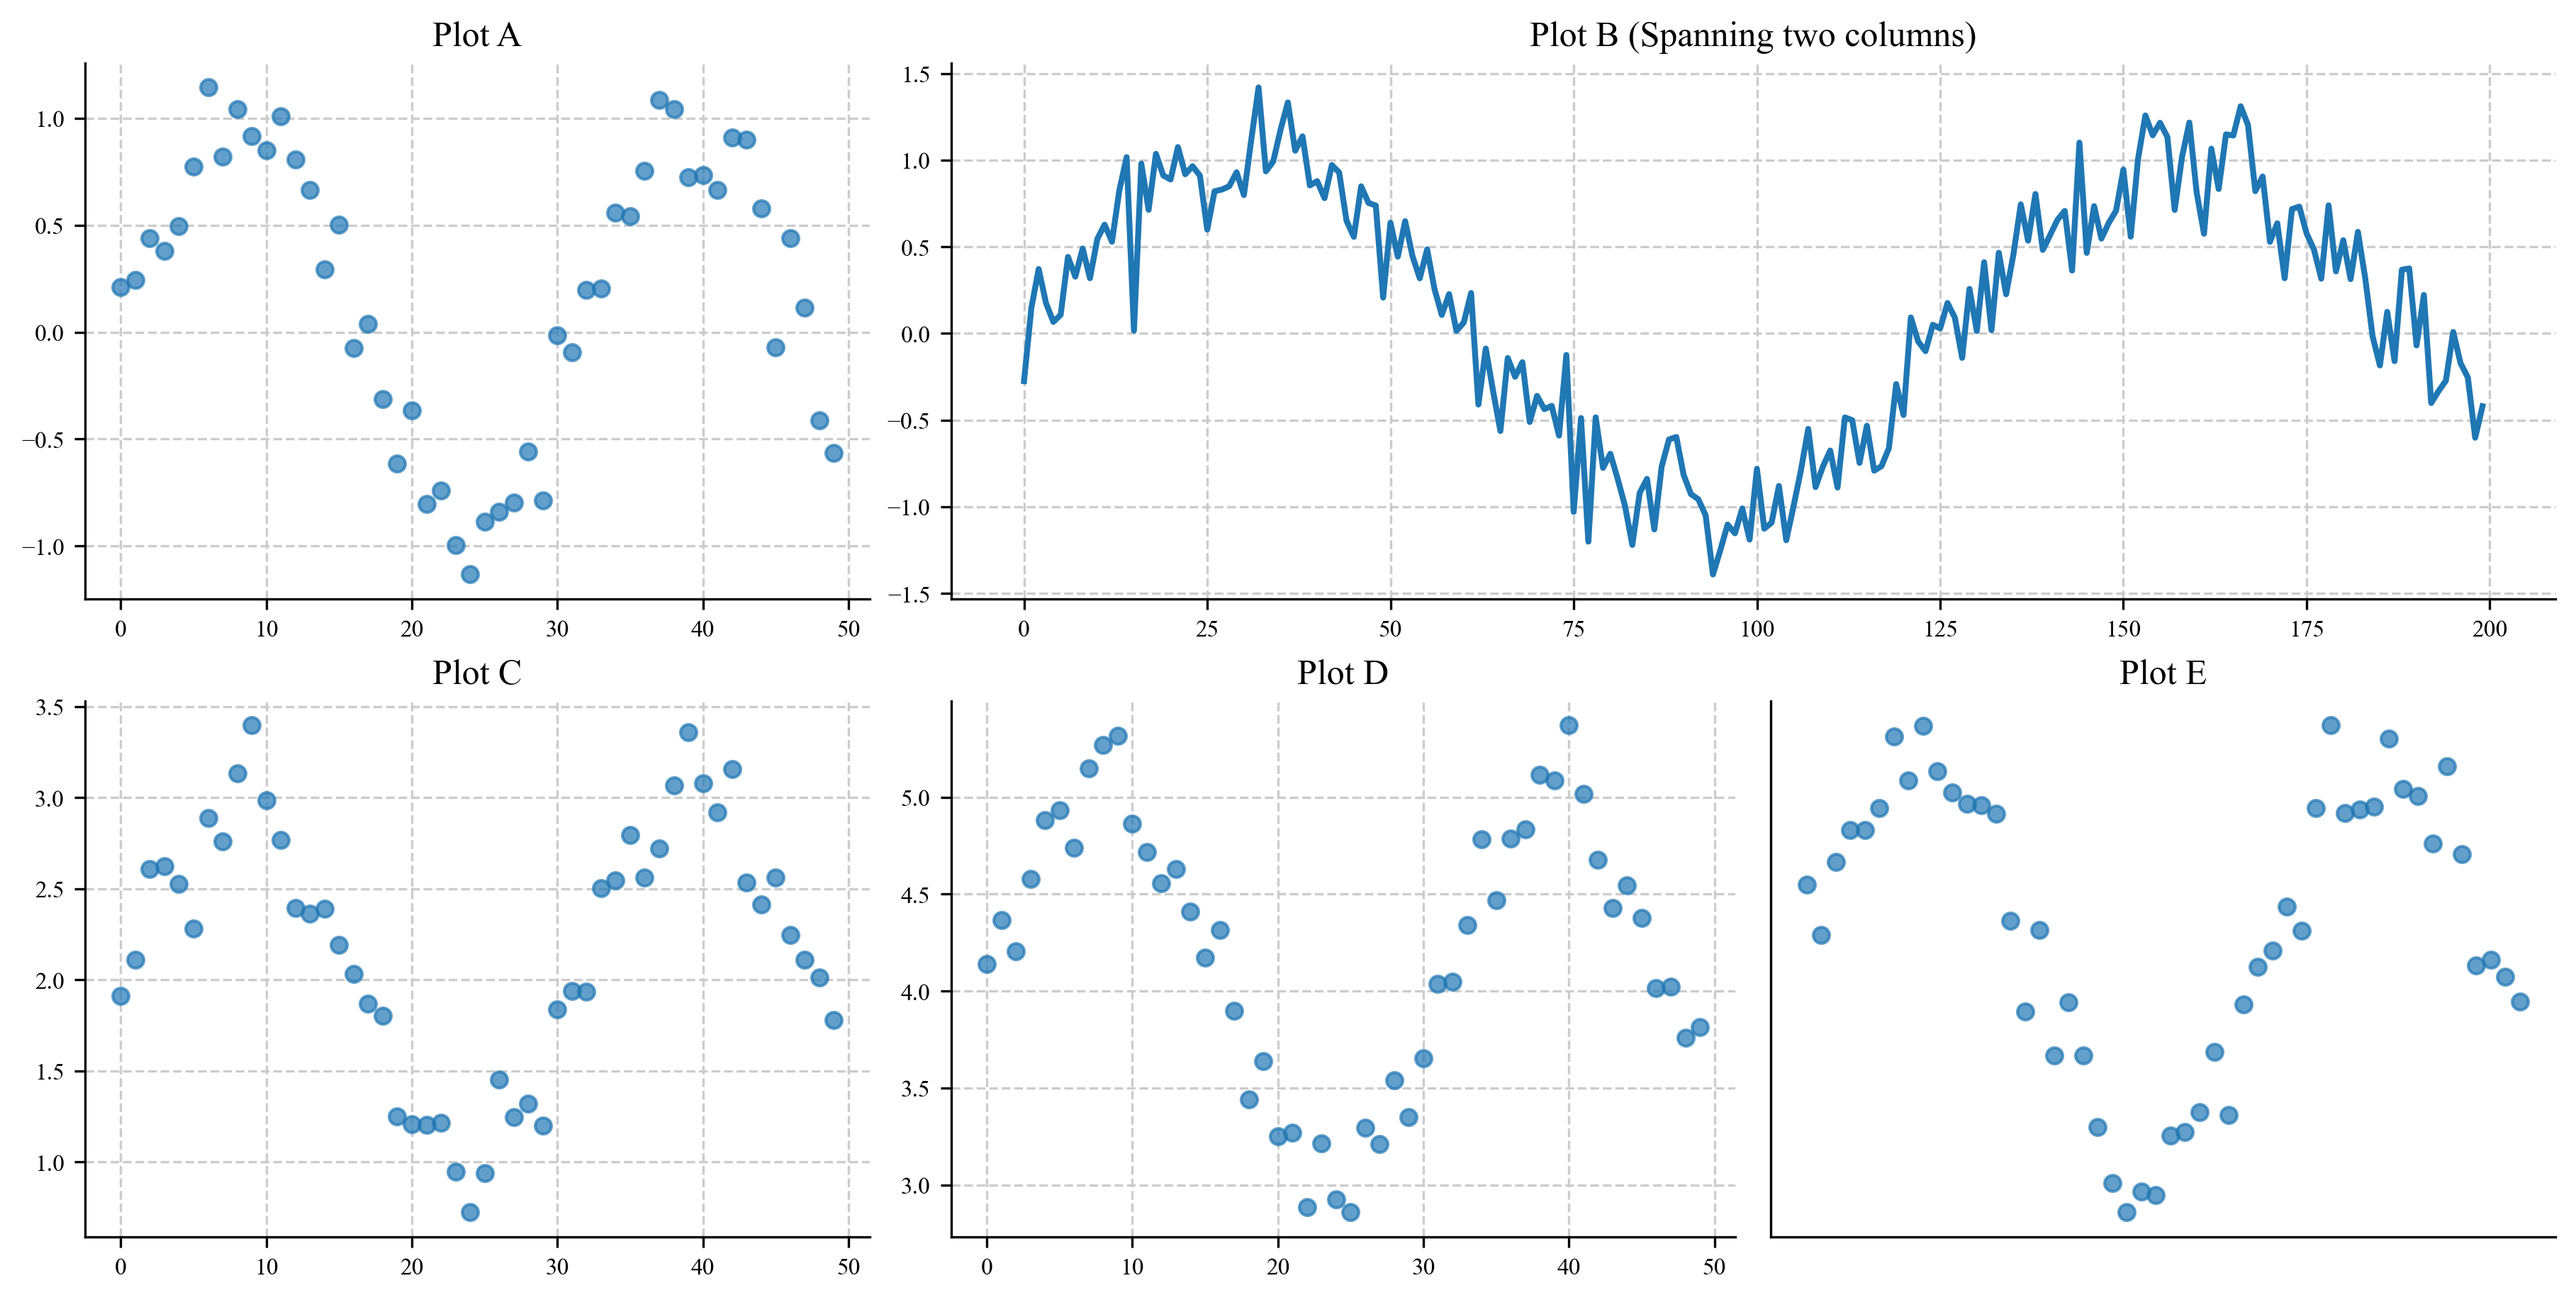
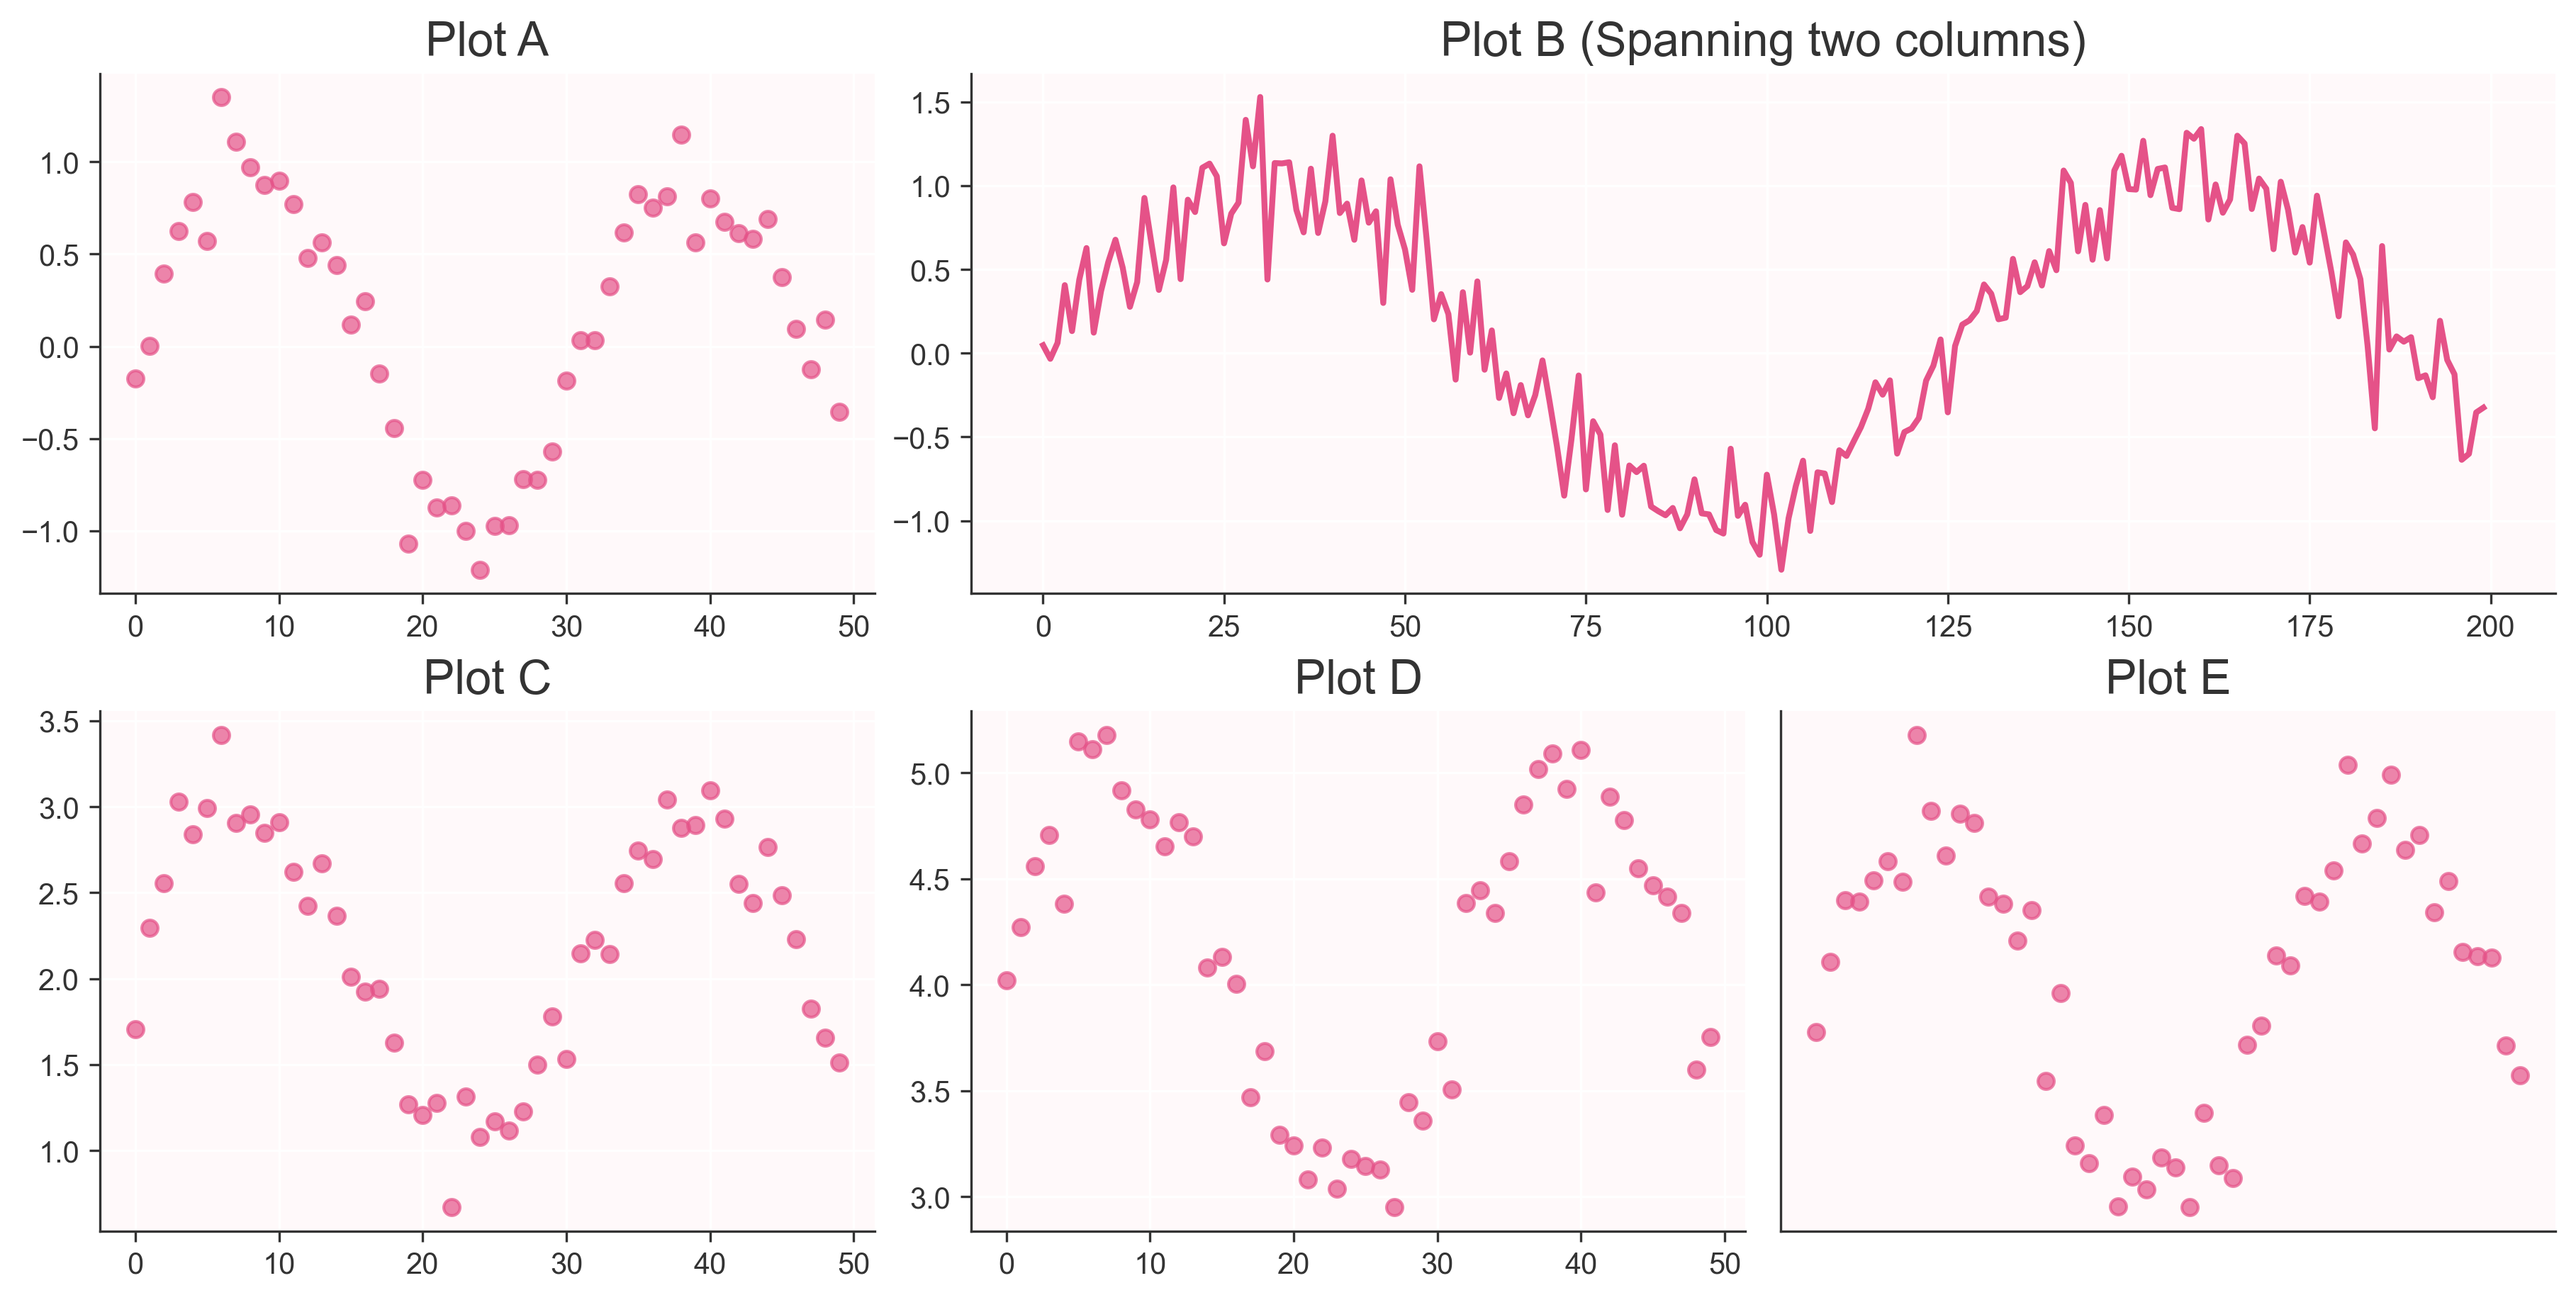
新增样式文件

diff --git a/examples/Styles_Aesthetics/style_gallery_example.py b/examples/Styles_Aesthetics/style_gallery_example.py
@@ -1,62 +1,138 @@
-# examples/style_gallery_example.py
+# examples/Styles_Aesthetics/style_gallery_example.py
 
 import paperplot as pp
 import pandas as pd
 import numpy as np
 import matplotlib.pyplot as plt
+from paperplot.utils import list_available_styles
 
 print(f"--- Running Example: {__file__} ---")
 
-# --- 1. 准备一份用于演示的标准数据 ---
+
+# --- 1. 准备更多样化的数据，以更好地展示不同图表 ---
 def generate_demo_data():
-    """Generates a simple dataframe for plotting."""
-    x = np.linspace(0, 10, 30)
-    y1 = np.sin(x) + np.random.randn(30) * 0.1
-    y2 = np.cos(x) + np.random.randn(30) * 0.1
-    return pd.DataFrame({'x': x, 'y1': y1, 'y2': y2})
+    """为不同图表类型生成多样化的数据。"""
+    np.random.seed(42)  # 确保每次运行数据都一样
 
-df_demo = generate_demo_data()
+    # 线图数据 (5条线，以展示更多颜色)
+    x_line = np.linspace(0, 10, 50)
+    df_line = pd.DataFrame({'x': x_line})
+    for i in range(5):
+        df_line[f'y{i}'] = np.sin(x_line + i * np.pi / 4) + np.random.randn(50) * 0.1
 
-# --- 2. 定义一个函数，用于为指定风格创建图表 ---
-def create_plot_for_style(style_name: str):
-    """Creates and saves a plot for a given style name."""
-    print(f"Generating plot for style: '{style_name}'...")
+    # 柱状图数据
+    df_bar = pd.DataFrame({
+        'category': ['A', 'B', 'C', 'D', 'E'],
+        'value': np.random.rand(5) * 10 + 5,
+        'error': np.random.rand(5) * 2
+    })
+
+    # 散点图 和 小提琴图 共用数据
+    df_dist = pd.DataFrame({
+        'x_dim': np.random.randn(150),
+        'y_dim': np.random.randn(150) * 1.5 + 2,
+        'group': np.random.choice(['G1', 'G2', 'G3'], 150)
+    })
+
+    # 热图数据
+    df_heatmap = pd.DataFrame(np.random.rand(8, 12))
+
+    return df_line, df_bar, df_dist, df_heatmap
+
+
+# --- 2. 定义一个函数，为指定风格创建一个全面的展示图表 ---
+def create_plot_for_style(style_name: str, df_line, df_bar, df_dist, df_heatmap):
+    """为给定的样式名称创建一个 2x3 的组合展示图并保存。"""
+    print(f"Generating comprehensive 2x3 plot for style: '{style_name}'...")
     try:
-        # 使用 (1, 1) 元组来初始化一个简单的1x1网格
-        plotter = pp.Plotter(layout=(1, 1), style=style_name, figsize=(8, 6))
+        plotter = pp.Plotter(layout=(2, 3), style=style_name, figsize=(18, 10))
+        plotter.set_suptitle(f"Style Showcase: '{style_name}'", fontsize=22, weight='bold')
 
-        # 在图上绘制两条线
-        plotter.add_line(data=df_demo, x='x', y='y1', tag='demo', label='Sine-like', marker='o')
-        ax = plotter.get_ax('demo') # Get the ax for the first line
-        plotter.add_line(data=df_demo, x='x', y='y2', ax=ax, label='Cosine-like', marker='^'
-        ).set_title(f"Style: '{style_name}'"
-        ).set_xlabel('X-axis'
-        ).set_ylabel('Y-axis'
-        ).set_legend()
+        # --- 在网格中填充所有图表 ---
 
-        # 保存图像
+        # Top-Left (ax00): Line Plot
+        y_cols = [f'y{i}' for i in range(5)]
+        plotter.add_spectra(data=df_line, x='x', y_cols=y_cols, tag='ax00', offset=0)
+        plotter.set_title('Line Plot', tag='ax00').set_xlabel('X-axis').set_ylabel('Y-axis').set_legend()
+
+        # Top-Middle (ax01): Bar Chart
+        plotter.add_bar(data=df_bar, x='category', y='value', y_err='error', tag='ax01', capsize=4)
+        plotter.set_title('Bar Chart', tag='ax01').set_xlabel('Category').set_ylabel('Value')
+
+
+
+        # Top-Right (ax02): Heatmap
+        plotter.add_heatmap(data=df_heatmap, tag='ax02', cbar=True)
+        plotter.set_title('Heatmap', tag='ax02').set_xlabel('Column').set_ylabel('Row')
+
+        # Bottom-Left (ax10): Scatter Plot
+        import seaborn as sns
+        plotter.add_seaborn(
+            plot_func=sns.scatterplot,
+            data=df_dist, x='x_dim', y='y_dim', hue='group',
+            tag='ax10'
+        )
+        plotter.set_title('Scatter Plot (with Hue)', tag='ax10').set_xlabel('X Dim').set_ylabel('Y Dim')
+
+        # Bottom-Middle (ax11): Violin Plot
+        plotter.add_violin(data=df_dist, x='group', y='y_dim', tag='ax11')
+        plotter.set_title('Violin Plot', tag='ax11').set_xlabel('Group').set_ylabel('Value Distribution')
+
+        # Bottom-Right (ax12): Color Palette
+        ax_palette = plotter.get_ax('ax12')
+        ax_palette.set_title('Color Palette')
+
+        try:
+            colors = plt.rcParams['axes.prop_cycle'].by_key()['color']
+
+            for i, color in enumerate(colors):
+                rect = plt.Rectangle((0.1, 0.9 - i * 0.08), 0.2, 0.06, facecolor=color)
+                ax_palette.add_patch(rect)
+                ax_palette.text(0.35, 0.9 - i * 0.08 + 0.03, f'Color {i}: {color}',
+                                va='center', fontsize=12)
+
+            ax_palette.set_xlim(0, 1)
+            ax_palette.set_ylim(0, 1)
+            ax_palette.axis('off')
+
+        except KeyError:
+            ax_palette.text(0.5, 0.5, 'No color cycle found\nin this style.',
+                            ha='center', va='center', style='italic')
+            ax_palette.axis('off')
+
+        # --- 保存图像 ---
         filename = f"style_gallery_{style_name}.png"
         plotter.save(filename)
         print(f"  -> Saved {filename}")
 
-    except (pp.PaperPlotError, ValueError, FileNotFoundError) as e:
-        print(f"  -> Error generating plot for style '{style_name}': {e}")
     except Exception as e:
-        print(f"  -> An unexpected error occurred: {e}")
+        print(f"  -> An unexpected error occurred for style '{style_name}': {e}")
     finally:
         plt.close('all')
 
-# --- 3. 循环遍历所有可用风格并生成图表 ---
-# 我们目前拥有的所有风格
-styles_to_showcase = [
-    'publication', 
-    'presentation', 
-    'flat', 
-    'nord', 
+
+# --- 主程序 ---
+# 1. 一次性生成所有需要的数据
+df_line, df_bar, df_dist, df_heatmap = generate_demo_data()
+
+# 2. 获取所有可用的样式
+styles_to_showcase = list_available_styles()
+print(f"Found {len(styles_to_showcase)} styles to showcase: {styles_to_showcase}")
+
+
+styles_not_to_showcase = [
+    'publication',
+    'presentation',
+    'flat',
+    'nord',
     'solarized_light'
 ]
 
+# 3. 循环为每个样式创建展示图
 for style in styles_to_showcase:
-    create_plot_for_style(style)
+    # 跳过不要的样式
+    if style in styles_not_to_showcase:
+        continue
+    create_plot_for_style(style, df_line, df_bar, df_dist, df_heatmap)
 
 print(f"\n--- Finished Example: {__file__} ---")

diff --git a/paperplot/mixins/generic.py b/paperplot/mixins/generic.py
@@ -1,10 +1,12 @@
 # paperplot/mixins/generic.py
-
+import colorsys
 from typing import Optional, Union, List, Callable
 import pandas as pd
 import numpy as np
 import matplotlib.pyplot as plt
 import seaborn as sns
+from matplotlib.colors import LinearSegmentedColormap
+
 from ..exceptions import DuplicateTagError
 from ..utils import _data_to_dataframe
 
@@ -127,21 +129,51 @@ class GenericPlotsMixin:
     def add_heatmap(self, **kwargs) -> 'Plotter':
         """
         在子图上绘制热图 (封装 `seaborn.heatmap`)。
-        此方法要求输入为DataFrame。
+        此方法会自动检测当前样式中的调色板，并用其创建一个匹配的
+        连续色图(Colormap)，除非用户手动指定了 `cmap` 参数。
+        新的版本会自动将调色板中的颜色按亮度排序，以创建
+        一个视觉上更直观的颜色梯度。
         """
+
         def plot_logic(ax, data_map, cache_df, data_names, **p_kwargs):
+            # 智能匹配 cmap 的逻辑
+            if 'cmap' not in p_kwargs:
+                try:
+                    colors = plt.rcParams['axes.prop_cycle'].by_key()['color']
+                    if colors:
+                        def get_lightness(hex_color):
+                            try:
+                                hex_color = hex_color.lstrip('#')
+                                if len(hex_color) == 3:
+                                    hex_color = "".join([c * 2 for c in hex_color])
+                                rgb_normalized = tuple(int(hex_color[i:i + 2], 16) / 255.0 for i in (0, 2, 4))
+                                return colorsys.rgb_to_hls(*rgb_normalized)[1]
+                            except Exception:
+                                return 0
+
+                        sorted_colors = sorted(colors, key=get_lightness)
+
+                        custom_cmap = LinearSegmentedColormap.from_list(
+                            "custom_style_cmap_sorted", sorted_colors
+                        )
+                        p_kwargs['cmap'] = custom_cmap
+                except (KeyError, IndexError):
+                    pass
+
+            # --- 错误修正：将以下代码块移入 plot_logic 函数内部 ---
             create_cbar = p_kwargs.pop('cbar', True)
             sns.heatmap(cache_df, ax=ax, cbar=create_cbar, **p_kwargs)
 
             if hasattr(ax, 'collections') and ax.collections:
                 return ax.collections[0]
             return None
+            # --- 修正结束 ---
 
-        # 对于 heatmap, data_keys 是空的，因为我们直接使用传入的 data DataFrame
+        # _execute_plot 的调用保持不变
         return self._execute_plot(
             plot_func=plot_logic,
             data_keys=[],
-            plot_defaults_key=None, # 热图有自己的样式逻辑
+            plot_defaults_key=None,
             **kwargs
         )
 

diff --git a/paperplot/utils.py b/paperplot/utils.py
@@ -1,7 +1,8 @@
 # paperplot/utils.py
 
 import os
-from typing import Optional, Union
+import glob
+from typing import Optional, Union, List
 import pandas as pd
 
 
@@ -26,6 +27,27 @@ def get_style_path(style_name: str) -> str:
         except (ImportError, FileNotFoundError):
             raise FileNotFoundError(f"Style '{style_name}' not found as a file or package resource.")
     return style_path
+
+
+def list_available_styles() -> List[str]:
+    """
+    列出 paperplot/styles 目录下所有可用的样式名称。
+
+    Returns:
+        List[str]: 样式名称列表 (不包含 .mplstyle 扩展名)。
+    """
+    current_dir = os.path.dirname(os.path.abspath(__file__))
+    styles_dir = os.path.join(current_dir, 'styles')
+    
+    styles = []
+    # 使用 glob 查找所有 .mplstyle 文件
+    # 注意：这里使用 os.path.join 来构建路径，确保跨平台兼容性
+    for style_file in glob.glob(os.path.join(styles_dir, '*.mplstyle')):
+        # 获取文件名，并移除 .mplstyle 扩展名
+        style_name = os.path.basename(style_file).replace('.mplstyle', '')
+        styles.append(style_name)
+        
+    return styles
 
 
 def parse_mosaic_layout(layout: list[list[str]]) -> tuple[dict, tuple[int, int]]:

diff --git a/paperplot/core.py b/paperplot/core.py
@@ -25,7 +25,7 @@ from .mixins.stats_modifiers import StatsModifiersMixin
 class Plotter(GenericPlotsMixin, DomainSpecificPlotsMixin, ThreeDPlotsMixin, MachineLearningPlotsMixin, 
               DataAnalysisPlotsMixin, StatsPlotsMixin, StatsModifiersMixin, ModifiersMixin):
     def __init__(self, layout: Union[Tuple[int, int], List[List[str]]],
-                 style: str = 'publication',
+                 style: str = 'marin_kitagawa',
                  figsize: Optional[Tuple[float, float]] = None,
                  subplot_aspect: Optional[Tuple[float, float]] = None,
                  ax_configs: Optional[Dict[Union[str, Tuple[int, int]], Dict]] = None,
